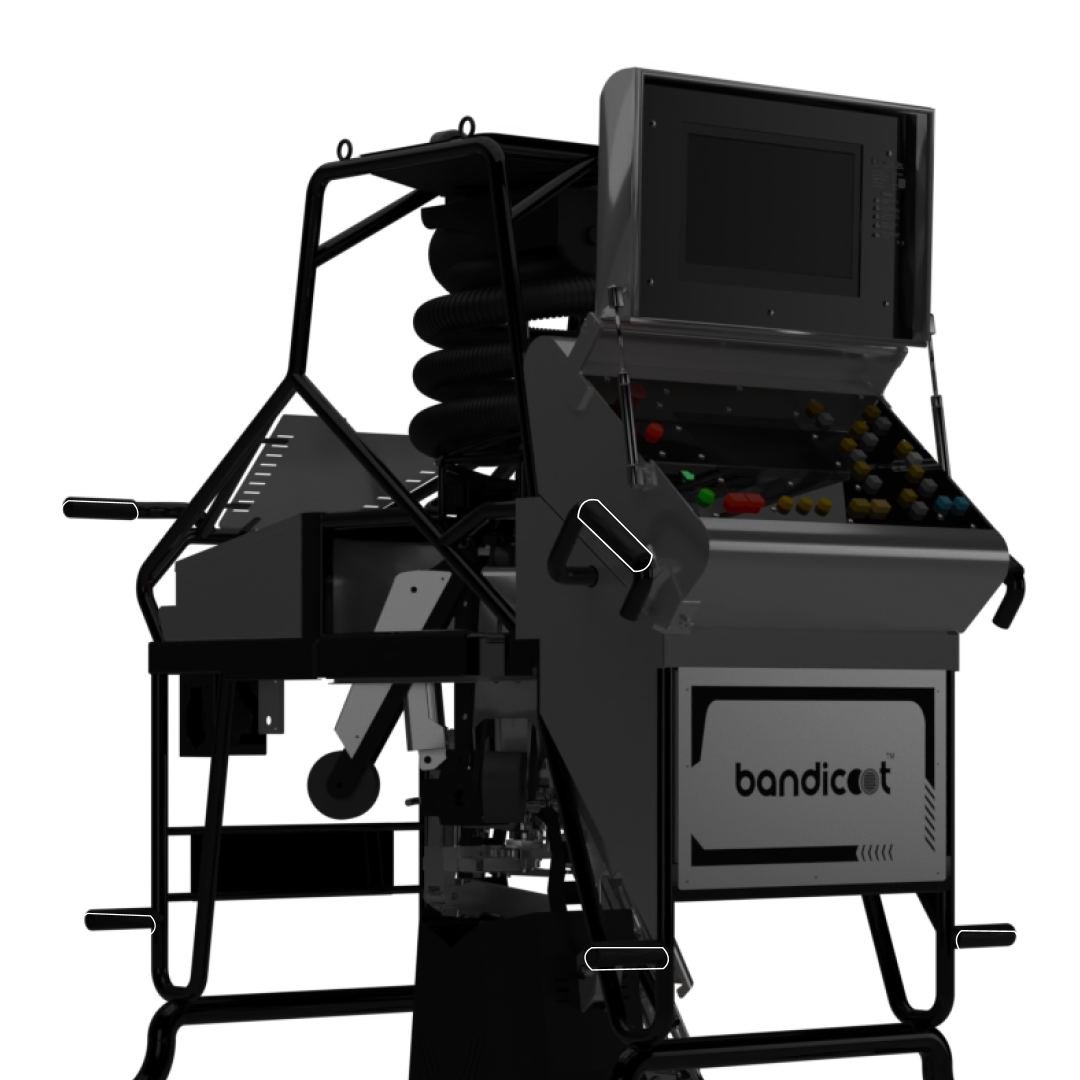
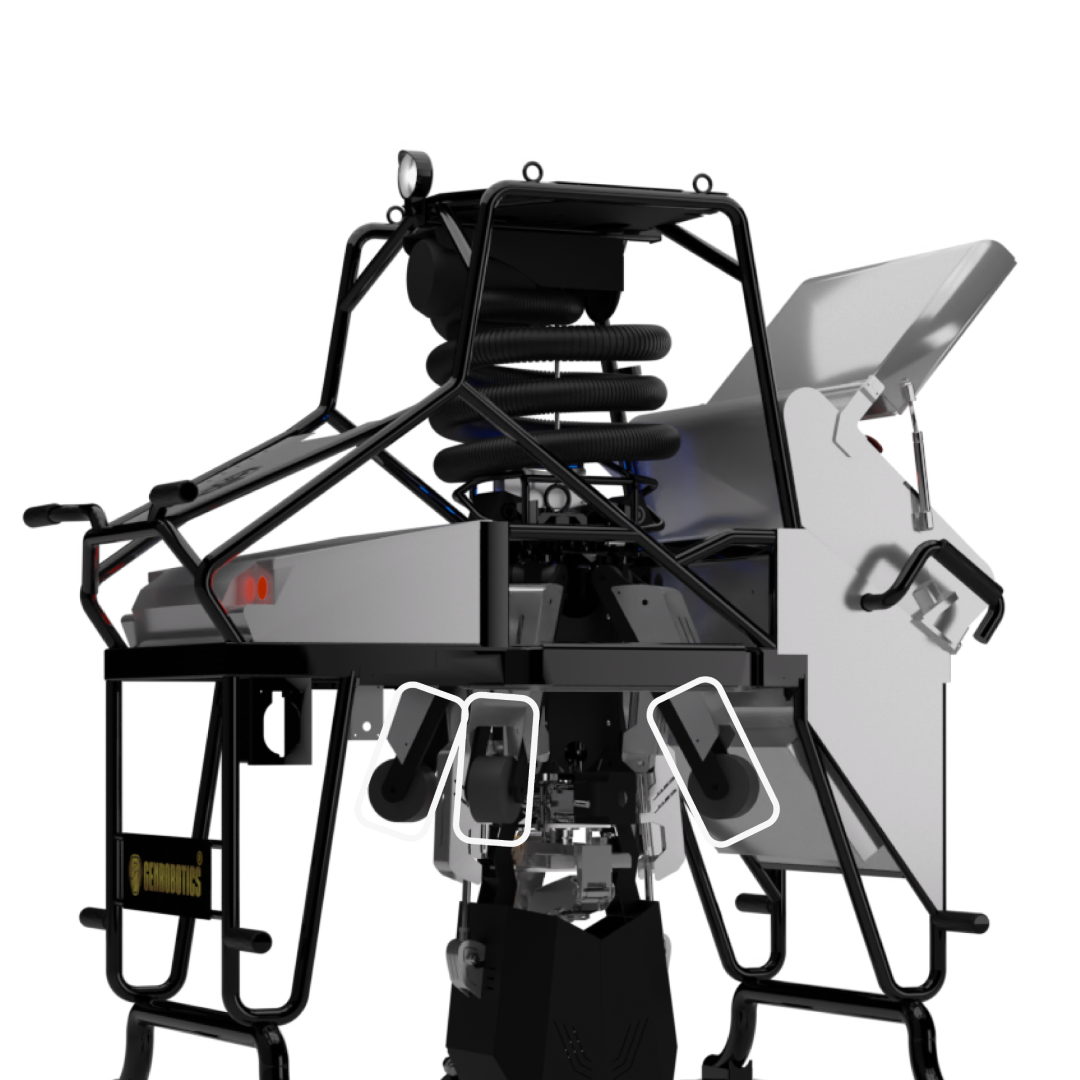
updates

diff --git a/components/Product[child]/imgSeq.js b/components/Product[child]/imgSeq.js
@@ -92,19 +92,22 @@ export default function ProductImgSequence(){
 
     // })
 
+    let Bandicoot = "Bandicoot's"
+
     return(
         <>
-        <section className="prodImg_Seq_Container" style={{background:'#242423', padding:"2rem", height:'95vh', overflow:'hidden'}}>
+        <section className="prodImg_Seq_Container" style={{background:'#242423', padding:"2rem", height:'100vh', overflow:'hidden'}}>
             <div style={{display:'flex', justifyContent:'space-between', alignItems:'flex-start', height:'100%'}}>
-                <div style={{width:'35%', display:'flex', flexDirection:'column', justifyContent:'space-between', padding:'3em 0 2em 2em', height:'100%'}}>
+                <div style={{width:'35%', display:'flex', flexDirection:'column', justifyContent:'space-between', padding:'3em 0 4em 2em', height:'100%'}}>
                     <div><p style={{fontSize:'1.25em', color:'#FFF', lineHeight:'150%'}}>Genrobotics, the leading Robotics company in India, primarily focusing on designing and development of Robotic solutions</p></div>
                     <div>
                         <div style={{padding:'1em 0'}}>
-                            <p style={{fontSize:'3.3em', color:'#FFF'}}>Camera</p>
+                            <p style={{fontSize:'2em', color:'#FFF'}}>Robotic Legs</p>
                         </div>
-                        <div className="dummyProgressBar" style={{width:'62%'}}>
-                            <p style={{color:'#FFF', fontSize:'1.1em', lineHeight:'130%'}}>
-                            Bandicoot has handles of for the <span className="gold">top area</span> and the <span className="dark-grey">bottom area.</span>
+                        <div className="dummyProgressBar" style={{width:'72%', margin:'0.5  em 0'}}>
+                            <p style={{color:'#FFF', fontSize:'1em', lineHeight:'130%'}}>
+                            Stability for Precision:<span className=""> { Bandicoot } Robotic Legs</span> Ensure Accurate Manhole Cleaning
+                            {/* <span className="dark-grey">bottom area.</span> */}
                             </p>
                         </div>
                     </div>

diff --git a/components/Product[child]/featScale.js b/components/Product[child]/featScale.js
@@ -14,21 +14,9 @@ export default function FeaturesScale(){
         },
         {
             index: '02',
-            title: 'More Reachablilty To Every Corner',
-            description: 'Bandicoot comes with 4 Robotic Legs to improve stabilization by adjusting each leg, creating more reachability and 100% efficiency.',
-            src: '/BluePrint/p-c.svg'
-        },
-        {
-            index: '03',
-            title: 'More Reachablilty To Every Corner',
-            description: 'Bandicoot comes with 4 Robotic Legs to improve stabilization by adjusting each leg, creating more reachability and 100% efficiency.',
-            src: '/BluePrint/p-c.svg'
-        },
-        {
-            index: '04',
-            title: 'More Reachablilty To Every Corner',
-            description: 'Bandicoot comes with 4 Robotic Legs to improve stabilization by adjusting each leg, creating more reachability and 100% efficiency.',
-            src: '/BluePrint/p-c.svg'
+            title: 'Precise and Surgical Cleaning',
+            description: "Powerful Precision: Bandicoot's Extendable Robotic Arm for Surgical Cleaning with Picking, Grabbing, and Shovelling Abilities",
+            src: '/Products/precise-cleaning.svg'
         },
     ]
 
@@ -68,7 +56,7 @@ export default function FeaturesScale(){
                                         </div>
                                         <div className="featureScale_Showcase_Item_AssetContainer" style={{justifyContent: i % 2 == 0 ? 'flex-end':'flex-start'}}>
                                             <div className="featureScale_Showcase_Item_AssetBg">
-                                                <Image height={100} width={100} src={data.src} alt="asset" />
+                                                <img src={data.src} alt="asset" />
                                             </div>
                                         </div>
                                     </div>

diff --git a/slices/Investors/index.js b/slices/Investors/index.js
@@ -10,34 +10,16 @@ export default function Investors({slice}){
 
   let dummyData = [
     {
-      src:'/dummyA.jpg',
-      fullName: 'Neo',
-      position: 'CEO, Genrobotics'
+      src:'/About/Investors/sridhar.png',
+      fullName: 'Sridhar Vembu',
+      position: 'Chief Executive Officer',
+      companyName: 'Zoho Corp'
     },
     {
-      src:'/dummyA.jpg',
-      fullName: 'Mr.Anderson',
-      position: 'CEO, Genrobotics'
-    },
-    {
-      src:'/dummyA.jpg',
-      fullName: 'Morpheus',
-      position: 'CEO, Genrobotics'
-    },
-    {
-      src:'/dummyA.jpg',
-      fullName: 'Morpheus',
-      position: 'CEO, Genrobotics'
-    },
-    {
-      src:'/dummyA.jpg',
-      fullName: 'Morpheus',
-      position: 'CEO, Genrobotics'
-    },
-    {
-      src:'/dummyA.jpg',
-      fullName: 'Morpheus',
-      position: 'CEO, Genrobotics'
+      src:'/About/Investors/anand.png',
+      fullName: 'Anand Mahendra',
+      position: 'Chairman',
+      companyName: 'Mahindra Group'
     },
   ]
 
@@ -82,7 +64,7 @@ export default function Investors({slice}){
                       </div>
                       <div className="Investors_Showcase_CompanyName">
                         <p>
-                          Genrobotics
+                          { data.companyName }
                         </p>
                       </div>
                     </div>

diff --git a/components/Header/header.js b/components/Header/header.js
@@ -6,7 +6,7 @@ import { useEffect, useRef, useState, useLayoutEffect } from "react"
 export default function Header({lenis}) {
 
 
-    let menuData = [{ content: 'About us', link:'/about' },{ content: 'Robotics & AI', link:'/' },{ content: 'Medical & Mobility', link:'/' },{ content: 'Newsroom', link:'/' },{ content: 'Contact us', link:'/contact' }]
+    let menuData = [{ content: 'About us', link:'/about' },{ content: 'Robotics & AI', link:'/' },{ content: 'Medical & Mobility', link:'/' },{ content: 'Newsroom', link:'/' },{ content: 'Contact us', link:'/contact' },{ content: 'Careers', link:'/' }]
     let menuSocials = [{ socials: 'LI', link:'https://www.linkedin.com/company/genrobotics/' },{ socials: 'FB', link:'https://www.facebook.com/genrobotics.org/' },{ socials: 'TW', link:'https://twitter.com/genrobotic/' },{ socials: 'IN', link:'https://www.instagram.com/genroboticinnovations/?hl=en' }]
     let legal = [{ legal: 'Terms & Condition' },{ legal: 'Privacy Policy' }]
     let ourProducts = [{products: 'Bandicoot', link:'/products/bandicootII'}, {products: 'Bandicoot Mini', link:'/'}, {products: 'Willboar', link:'/'},{products:'Mobility', link:'/'}]

diff --git a/slices/TheTeam/index.js b/slices/TheTeam/index.js
@@ -50,22 +50,22 @@ export default function TheTeam({slice}){
   const ebTitleRef = useRef();
   const ebSubTitleRef = useRef();
 
-  useEffect(() => {
+//   useEffect(() => {
 
-    const observer = new IntersectionObserver((entries) => {
-      entries.forEach(entry => {
-        if(entry.isIntersecting) {
-          ebTitleRef.current.style.transform =  reveal; 
-          setTimeout(() => {
-            ebSubTitleRef.current.style.transform = reveal; 
-          },500)
-        }
-      })
-    })
-  observer.observe(document.querySelector('.Team'));
+//     const observer = new IntersectionObserver((entries) => {
+//       entries.forEach(entry => {
+//         if(entry.isIntersecting) {
+//           ebTitleRef.current.style.transform =  reveal; 
+//           setTimeout(() => {
+//             ebSubTitleRef.current.style.transform = reveal; 
+//           },500)
+//         }
+//       })
+//     })
+//   observer.observe(document.querySelector('.Team'));
 
- // anim paused, building contact page
-  }, [])
+//  anim paused, building contact page
+//   }, [])
 
 
   return(

diff --git a/components/Product[child]/prodBotmShowcase.js b/components/Product[child]/prodBotmShowcase.js
@@ -185,10 +185,10 @@ export default function ProductBottomShowcase(){
                                 </div>
                             </div>
                         </div>
-                        <div style={{border:'1px rgba(50, 39, 18, 0.33) solid', display:'flex', alignItems:'center', padding:'0.4em 1em', borderRadius:'0.6em'}}>
+                        <a href="https://mkp.gem.gov.in/advanced-manufacturing-robotics/bandicoot/p-5116877-4090503505-cat.html" target='_blank' style={{border:'1px rgba(50, 39, 18, 0.33) solid', display:'flex', alignItems:'center', padding:'0.4em 1em', borderRadius:'0.6em', cursor:'pointer'}}>
                             <div style={{height:'3em', width:'3em'}}><img style={{height:'100%', width:'100%', objectFit:'contain'}} src="/Products/purchaseBCoot.png" alt="image" /></div>
                             <div><p>Purchase Bandicoot</p></div>
-                        </div>
+                        </a>
                     </div>
                 </div>
             </div>

diff --git a/components/Product[child]/prodOvEb.js b/components/Product[child]/prodOvEb.js
@@ -3,11 +3,11 @@
 export default function ProductOverviewEB() {
 
       // Second section
-      let overviewEyebrow = "Mobility designed around"
-      let colorText = "you"
+      let overviewEyebrow = "When Engineering Meets"
+      let colorText = "Compassion!"
   
-      let ovEbDescA = "We’re reinventing personal transportation—making the future safer, cleaner, and more enjoyable for everyone. It's on-demand autonomous ride-hailing."
-      let ovEbDescB = "Let Bandicoot handle the traffic, while you enjoy a smooth, relaxing ride in a spacious cabin designed around you."
+      let ovEbDescA = "Bandicoot is an advanced robotic machine engineered for efficient cleaning of sewer manholes. Its customizable diving drone, nano coating, and flexible arm enable effective"
+      let ovEbDescB = "operation in hazardous environments. It surpasses human capabilities in time and efficiency, while sensor-based feedback ensures precise cleaning."
 
     return(
         <>

diff --git a/styles/About/investors.css b/styles/About/investors.css
@@ -38,6 +38,8 @@
 .Investors_Showcase_Img {
     height: 15.625em;
     width: 15.625em;
+
+    margin: 0 0 1em 0;
     
     border-radius: 50%;
 }
@@ -59,13 +61,13 @@
     color: #EEEEEA;
 }
 .Investors_Showcase_Position {
-    padding: 0.2em 0 0.2em 0;
+    padding: 0.4em 0 0.6em 0;
 }
 .Investors_Showcase_Position > p {
     font-size: 1em;
     color: #EEEEEA;
 }
 .Investors_Showcase_CompanyName > p {
-    font-size: 0.8em;
+    font-size: 1em;
     color: #8C7024;
 }

diff --git a/styles/Products/featScale.css b/styles/Products/featScale.css
@@ -60,7 +60,7 @@
     justify-content: flex-end;
 }
 .featureScale_Showcase_Item_AssetBg {
-    height: 30em;
+    height: 40em;
     width: 90%;
     background: #322712;
     border-radius: 0.625em;
@@ -70,8 +70,8 @@
     justify-content: center;
 }
 .featureScale_Showcase_Item_AssetBg > img {
-    height: 90%;
-    width: 90%;
+    height: 70%;
+    width: 70%;
 
     object-fit: contain;
 }

diff --git a/styles/globals.css b/styles/globals.css
@@ -111,7 +111,7 @@ a {
 .dummyProgressBar::after {
   content: '';
   position: absolute;
-  bottom: -30%;
+  bottom: -60%;
   left: 0;
   height: 3px;
   width: 100%;
@@ -120,7 +120,7 @@ a {
 .dummyProgressBar::before {
   content: '';
   position: absolute;
-  bottom: -30%;
+  bottom: -60%;
   left: 0;
   height: 3px;
   width: 30%;

diff --git a/styles/Products/prodHero.css b/styles/Products/prodHero.css
@@ -1,10 +1,10 @@
 .product {
-    padding: 8rem 2rem 6rem 2rem;
+    padding: 0 2rem 6rem 2rem;
     background: #FFF;
     font-size: 1rem;
 }
 .product_Container {
-    padding: 2em 4em 0 4em;
+    padding: 8em 4em 0 4em;
     background: #242423;
 
     border-radius: 0.625em;

diff --git a/styles/Products/prodOvEb.css b/styles/Products/prodOvEb.css
@@ -7,7 +7,7 @@
     padding: 2em 0;
 
     display: flex;
-    align-items: center;
+    align-items: flex-start;
     justify-content: space-between;
 }
 .product_Overview_Eyebrow_Left {
